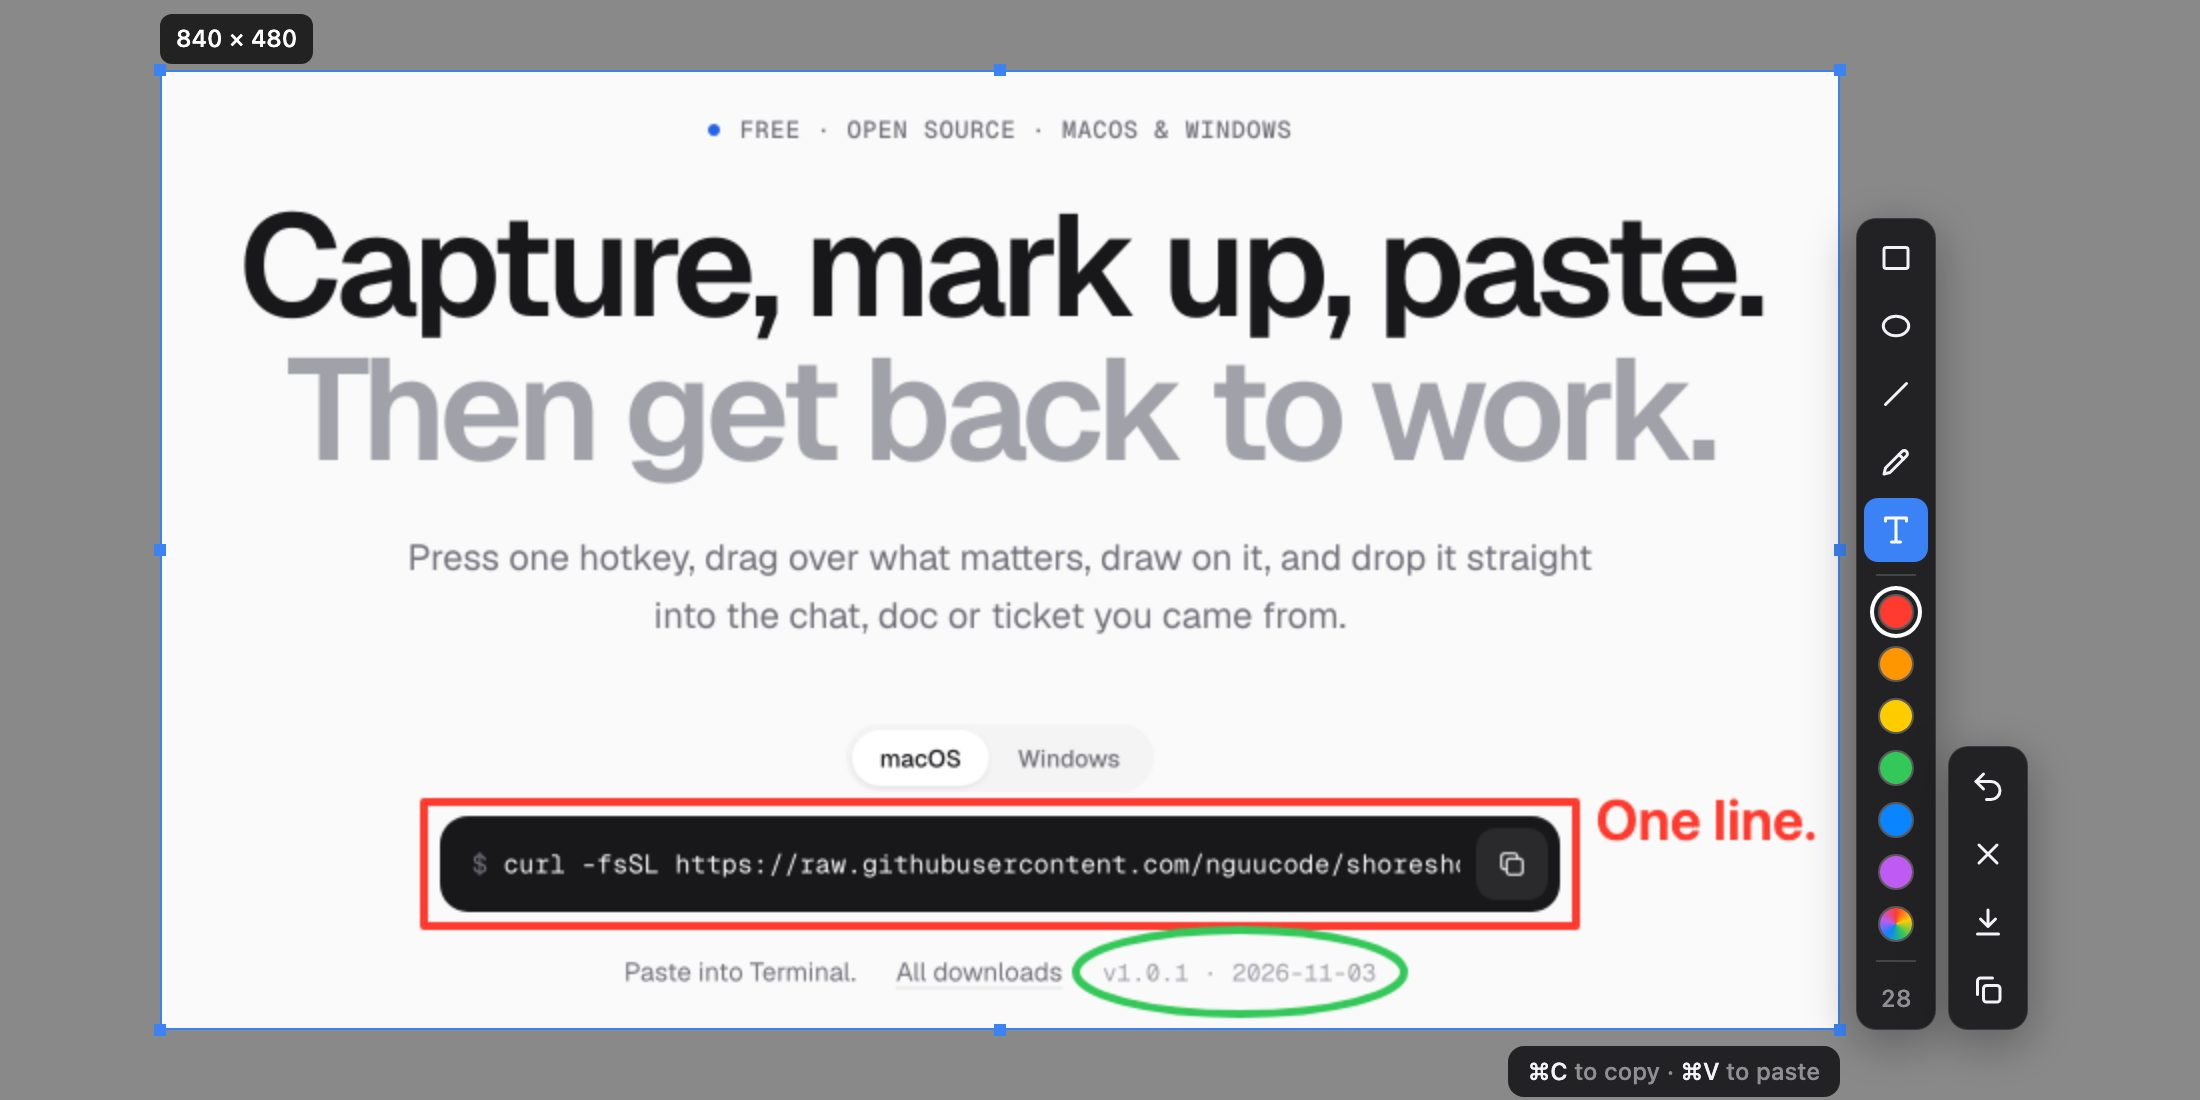
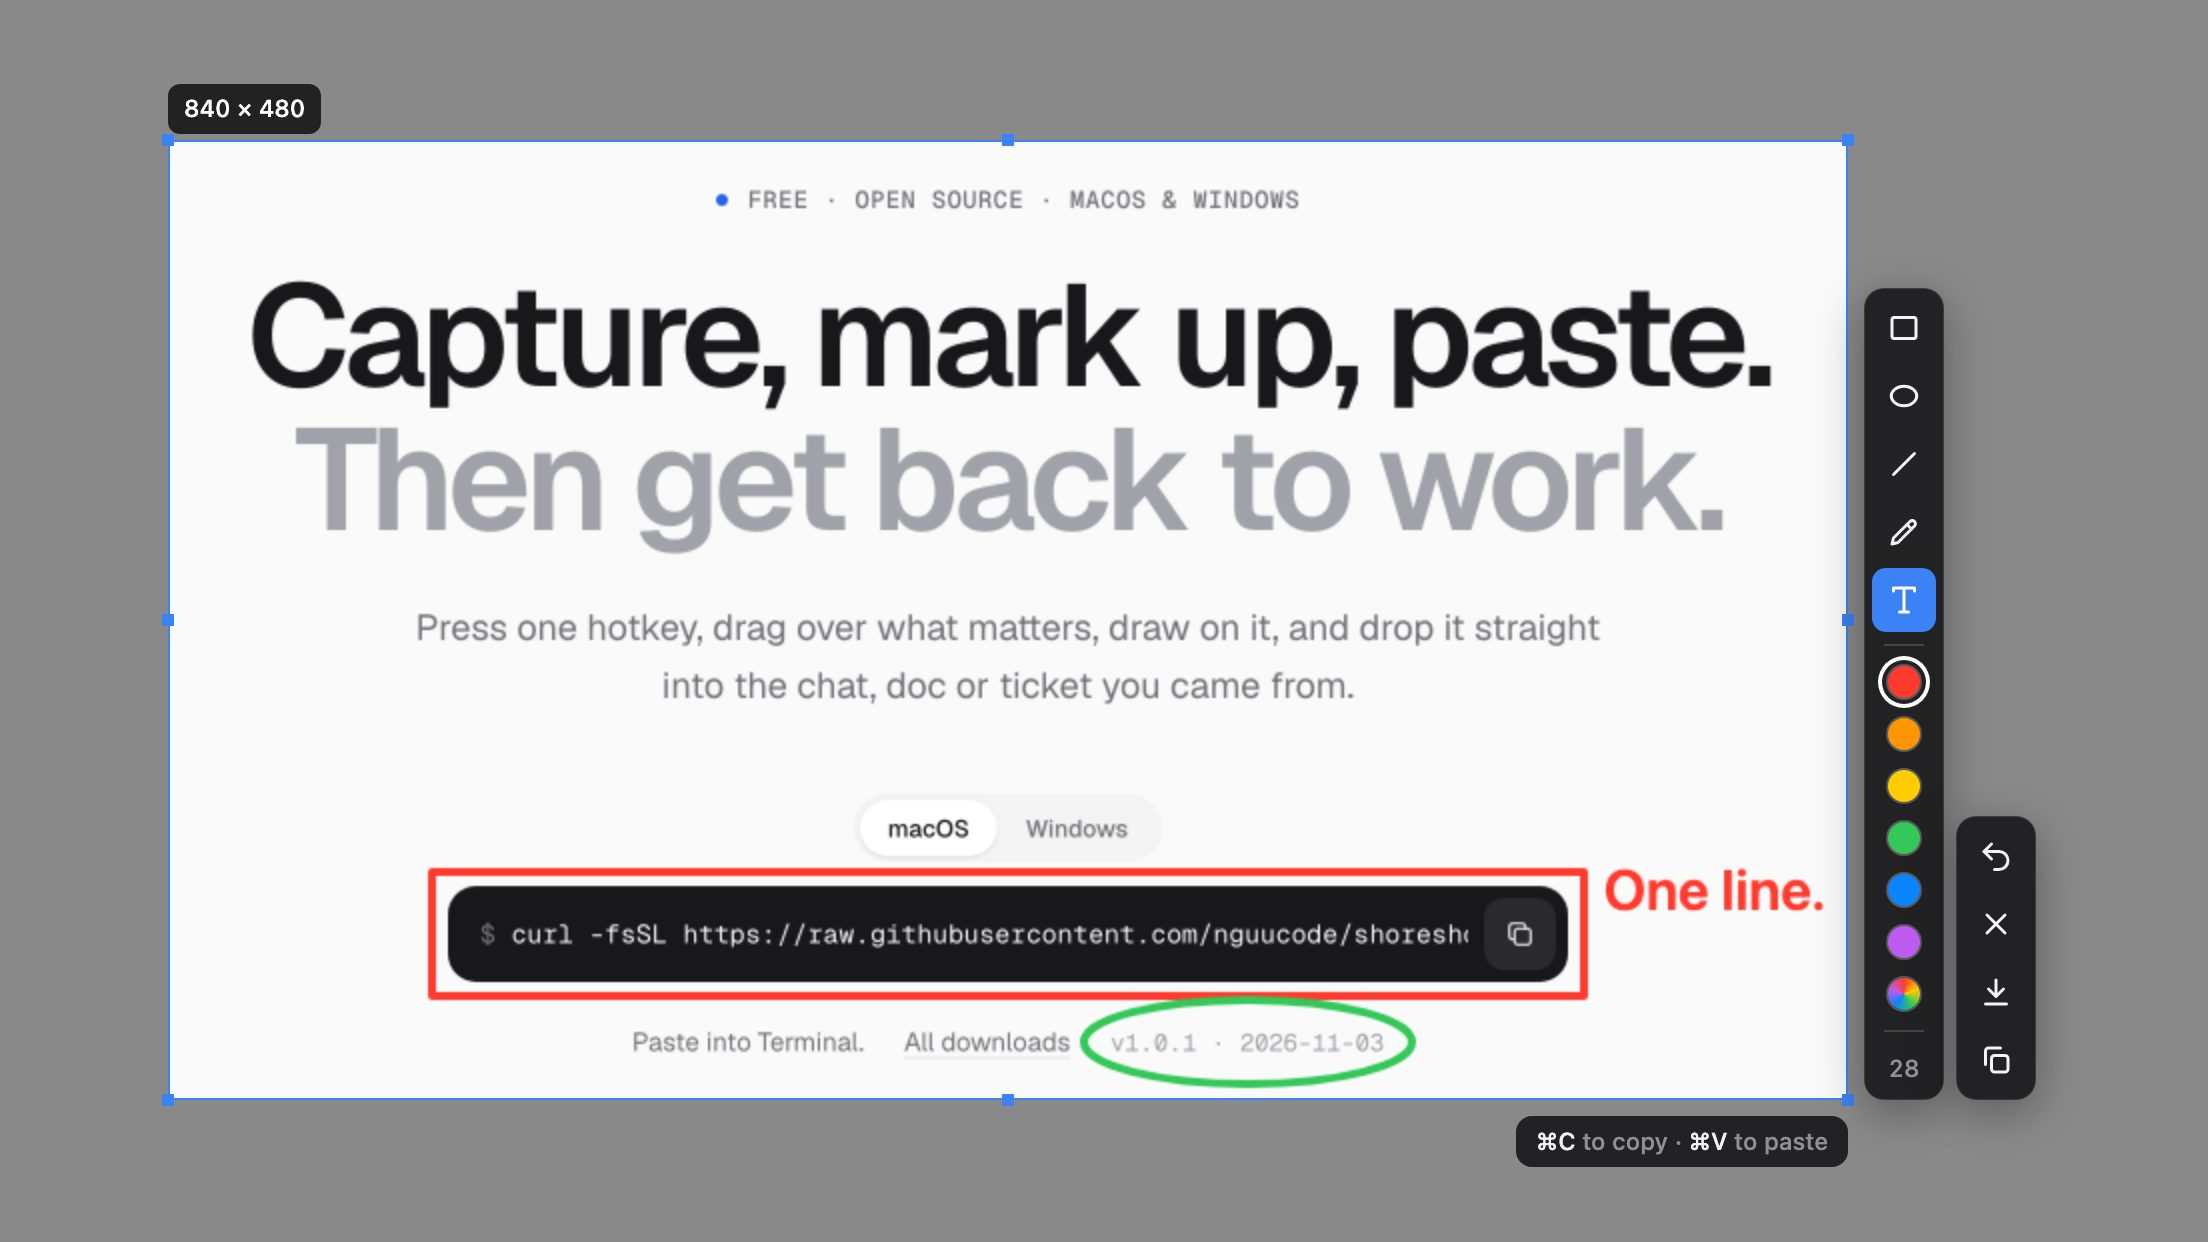
Website: 16:9 demo frame

Changed region(s): [[0.0618, 0.0, 0.9273, 1.0], [0.1855, 0.4945, 0.7418, 0.5873]]

diff --git a/docs/index.html b/docs/index.html
@@ -81,13 +81,13 @@ h1, h2 { text-wrap: balance; }
 
 /* Demo: three real frames of the overlay. Frame 1 is revealed like a selection being dragged, frame 2 fades in the annotations. */
 .stage { position: relative; max-width: 1040px; margin: 80px auto 0; }
-.demo { position: relative; margin: 0; aspect-ratio: 2 / 1; border-radius: 18px; overflow: hidden; box-shadow: var(--shadow); background: #3f3f46; }
+.demo { position: relative; margin: 0; aspect-ratio: 16 / 9; border-radius: 18px; overflow: hidden; box-shadow: var(--shadow); background: #3f3f46; }
 .demo img { position: absolute; inset: 0; width: 100%; height: 100%; display: block; }
 .demo .f1 { animation: drag 10s infinite; }
 .demo .f2 { animation: mark 10s infinite; }
 @keyframes drag {
-  0%, 12% { clip-path: inset(6.36% 92.73% 93.64% 7.27%); opacity: 1; animation-timing-function: var(--ease); }
-  34%, 35.9% { clip-path: inset(6.36% 16.36% 6.36% 7.27%); }
+  0%, 12% { clip-path: inset(11.27% 92.39% 88.73% 7.61%); opacity: 1; animation-timing-function: var(--ease); }
+  34%, 35.9% { clip-path: inset(11.27% 16.30% 11.43% 7.61%); }
   36%, 90% { clip-path: inset(0); opacity: 1; }
   96%, 100% { clip-path: inset(0); opacity: 0; }
 }
@@ -95,9 +95,9 @@ h1, h2 { text-wrap: balance; }
 .track { position: absolute; inset: 0; pointer-events: none; animation: track 10s infinite; }
 .track svg { position: absolute; left: 0; top: 0; width: 22px; height: 22px; margin: -11px 0 0 -11px; color: #fff; filter: drop-shadow(0 1px 1px rgba(0, 0, 0, .6)); }
 @keyframes track {
-  0%, 12% { transform: translate(7.27%, 6.36%); opacity: 1; animation-timing-function: var(--ease); }
-  34% { transform: translate(83.64%, 93.64%); opacity: 1; }
-  38%, 100% { transform: translate(83.64%, 93.64%); opacity: 0; }
+  0%, 12% { transform: translate(7.61%, 11.27%); opacity: 1; animation-timing-function: var(--ease); }
+  34% { transform: translate(83.70%, 88.57%); opacity: 1; }
+  38%, 100% { transform: translate(83.70%, 88.57%); opacity: 0; }
 }
 .steps { display: flex; justify-content: center; gap: 6px; margin-top: 20px; font: 12px var(--mono); color: var(--faint); }
 .steps span { padding: 6px 10px; border-radius: 999px; transition: color .3s; }
@@ -227,9 +227,9 @@ footer a:hover { color: var(--fg); }
 
     <div class="stage rise" style="--i:2">
       <figure class="demo" role="img" aria-label="ShoreShot over a web page: an area is selected, marked with a red box, a green circle and red text, with the tools bar and the actions bar on its right">
-        <img src="shot-0.jpg" width="2200" height="1100" alt="">
-        <img class="f1" src="shot-1.jpg" width="2200" height="1100" alt="">
-        <img class="f2" src="shot-2.jpg" width="2200" height="1100" alt="">
+        <img src="shot-0.jpg" width="2208" height="1242" alt="">
+        <img class="f1" src="shot-1.jpg" width="2208" height="1242" alt="">
+        <img class="f2" src="shot-2.jpg" width="2208" height="1242" alt="">
         <div class="track"><svg viewBox="0 0 24 24" fill="none" stroke="currentColor" stroke-width="1.5"><path d="M12 2v20M2 12h20"/></svg></div>
       </figure>
       <div class="steps" aria-hidden="true"><span>⌘⇧X</span><span>drag</span><span>mark up</span><span>⌘V into Slack</span></div>
